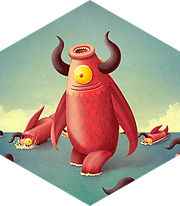
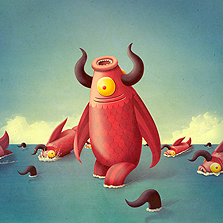
Complete portfolio

diff --git a/index.html b/index.html
@@ -15,10 +15,10 @@
         <div class="menu">
           <img alt="logo" class="logo" src="pics/logo.svg"/>
           <ul class="menu-list">
-            <li class="list-item">Portfolio</li>
-            <li class="list-item about">About</li>
-            <li class="list-item blog">Blog</li>
-            <li class="list-item">Get in touch</li>
+            <li class="list-item"><a>Portfolio</a></li>
+            <li class="list-item about"><a>About</a></li>
+            <li class="list-item blog"><a>Blog</a></li>
+            <li class="list-item"><a>Get in touch</a></li>
           </ul>
         </div>
       </nav>
@@ -28,24 +28,28 @@
       <hr class="right-line">
       <div class="hex-block">
         <div class="line-1">
-          <img alt="" class="hex1 hex-line" src="pics/hex1.png"/>
-          <img alt="" class="hex2 hex-line" src="pics/hex2.png"/>
-          <img alt="" class="hex3 hex-line" src="pics/hex3.png"/>
-          <img alt="" class="hex4 hex-line" src="pics/hex4.png"/>
+          <div class="left-vertical-line"></div>
+          <img alt="" class="hex-line" src="pics/hex1.png"/>
+          <img alt="" class="hex-line" src="pics/hex2.png"/>
+          <img alt="" class="hex-line" src="pics/hex3.png"/>
+          <img alt="" class="hex-line" src="pics/hex4.png"/>
+          <div class="right-vertical-line"></div>
         </div>
         <div class="line-2">
-          <img alt="" class="hex5 hex-line" src="pics/hex5.png"/>
-          <img alt="" class="hex6 hex-line" src="pics/hex6.png"/>
-          <img alt="" class="hex7 hex-line" src="pics/hex7.png"/>
-          <img alt="" class="hex8 hex-line" src="pics/hex8.png"/>
-          <img alt="" class="hex9 hex-line" src="pics/hex9.png"/>
+          <img alt="" class="hex-line" src="pics/hex5.png"/>
+          <img alt="" class="hex-line" src="pics/hex6.png"/>
+          <img alt="" class="hex-line" src="pics/hex7.png"/>
+          <img alt="" class="hex-line" src="pics/hex8.png"/>
+          <img alt="" class="hex-line" src="pics/hex9.png"/>
         </div>
-          <div class="line-3">
-          <img alt="" class="hex10 hex-line" src="pics/hex10.png"/>
-          <img alt="" class="hex11 hex-line" src="pics/hex11.png"/>
-          <img alt="" class="hex12 hex-line" src="pics/hex12.png"/>
-          <img alt="" class="hex13 hex-line" src="pics/hex13.png"/>
-         </div>
+        <div class="line-3">
+          <div class="left-vertical-line"></div>
+          <img alt="" class="hex-line" src="pics/hex10.png"/>
+          <img alt="" class="hex-line" src="pics/hex11.png"/>
+          <img alt="" class="hex-line" src="pics/hex12.png"/>
+          <img alt="" class="hex-line" src="pics/hex13.png"/>
+          <div class="right-vertical-line"></div>
+        </div>
       </div>
       <svg class="slider" height="12" width="85">
         <rect fill="#ddd2c5" x="0" y="0" height="10" width="10"></rect>

diff --git a/styles.css b/styles.css
@@ -5,19 +5,16 @@ body {
 
 .nav-block {
   background-color: #323232;
-  display: inline-block;
-  position: relative;
-  text-align: center;
-  width: 100%;
 }
 
 .menu {
-  display: inline-block;
-  position: relative;
+  margin: 0 auto;
+  text-align: center;
 }
 
 .menu-list {
-  margin: 25px 0 25px 0;
+  display: inline-block;
+  margin: 25px 0;
   padding: 0;
   list-style: none;
 }
@@ -25,8 +22,9 @@ body {
 .logo {
   position: absolute;
   top: 9px;
-  left: 205px;
+  left: 50%;
   width: 75px;
+  transform: translateX(-50%);
 }
 
 .header::after {
@@ -65,11 +63,21 @@ body {
 .about::before {
   content: "\22C5";
   margin-right: 10px;
+  color: #e0e0e0;
 }
 
 .blog::after {
   content: "\22C5";
   margin-left: 10px;
+  margin-right: 10px;
+  color: #e0e0e0;
+}
+
+.hex-line {
+  clip-path: polygon(50% 0%, 100% 25%, 100% 75%, 50% 100%, 0% 75%, 0% 25%);
+  height: 210px;
+  width: 195px;
+  margin: 0 10px;
 }
 
 .left-line {
@@ -93,65 +101,38 @@ body {
 }
 
 .hex-block {
-  position: relative;
-  margin-top: 100px;
+  padding: 100px;
+  text-align: center;
 }
 
 .line-1 {
-  display: flex;
-  justify-content: center;
-}
-.line-1::before {
-  border: 1px solid #d6dfdf;
-  content: "";
-  height: 115px;
-  margin-top: 60px;
-  margin-right: 10px;
-  opacity: 0.5;
-}
-
-.line-1::after {
-  border: 1px solid #d6dfdf;
-  content: "";
-  height: 115px;
-  margin-top: 60px;
-  margin-left: 10px;
-  opacity: 0.5;
+  display: inline-block;
 }
 
 .line-2 {
-  display: flex;
-  justify-content: center;
-  margin-top: -40px;
+  margin-top: -35px;
+}
+
+.left-vertical-line {
+  border-left: 1px solid #d6dfdf;
+  display: inline-block;
+  height: 102px;
+  margin-bottom: 54px;
+  margin-right: 20px;
+  opacity: .5;
+}
+
+.right-vertical-line {
+  border-left: 1px solid #d6dfdf;
+  display: inline-block;
+  height: 102px;
+  margin-bottom: 54px;
+  margin-left: 20px;
+  opacity: .5;
 }
 
 .line-3 {
-  display: flex;
-  justify-content: center;
-  margin-top: -40px;
-}
-
-.line-3::before {
-  border: 1px solid #d6dfdf;
-  content: "";
-  height: 115px;
-  margin-top: 60px;
-  margin-right: 10px;
-  opacity: 0.5;
-}
-
-.line-3::after {
-  border: 1px solid #d6dfdf;
-  content: "";
-  height: 115px;
-  margin-top: 60px;
-  margin-left: 10px;
-  opacity: 0.5;
-}
-
-.hex-line {
-  margin: 0 10px;
-  width: 206px;
+  margin-top: -35px;
 }
 
 .slider {
@@ -161,7 +142,7 @@ body {
 
 .bottom-line {
   border-bottom: 1px solid #d6dfdf;
-  margin: 10px 30px 10px 30px;
-  opacity: 0.5;
+  margin: 10px 30px;
+  opacity: .5;
   position: relative;
 }
